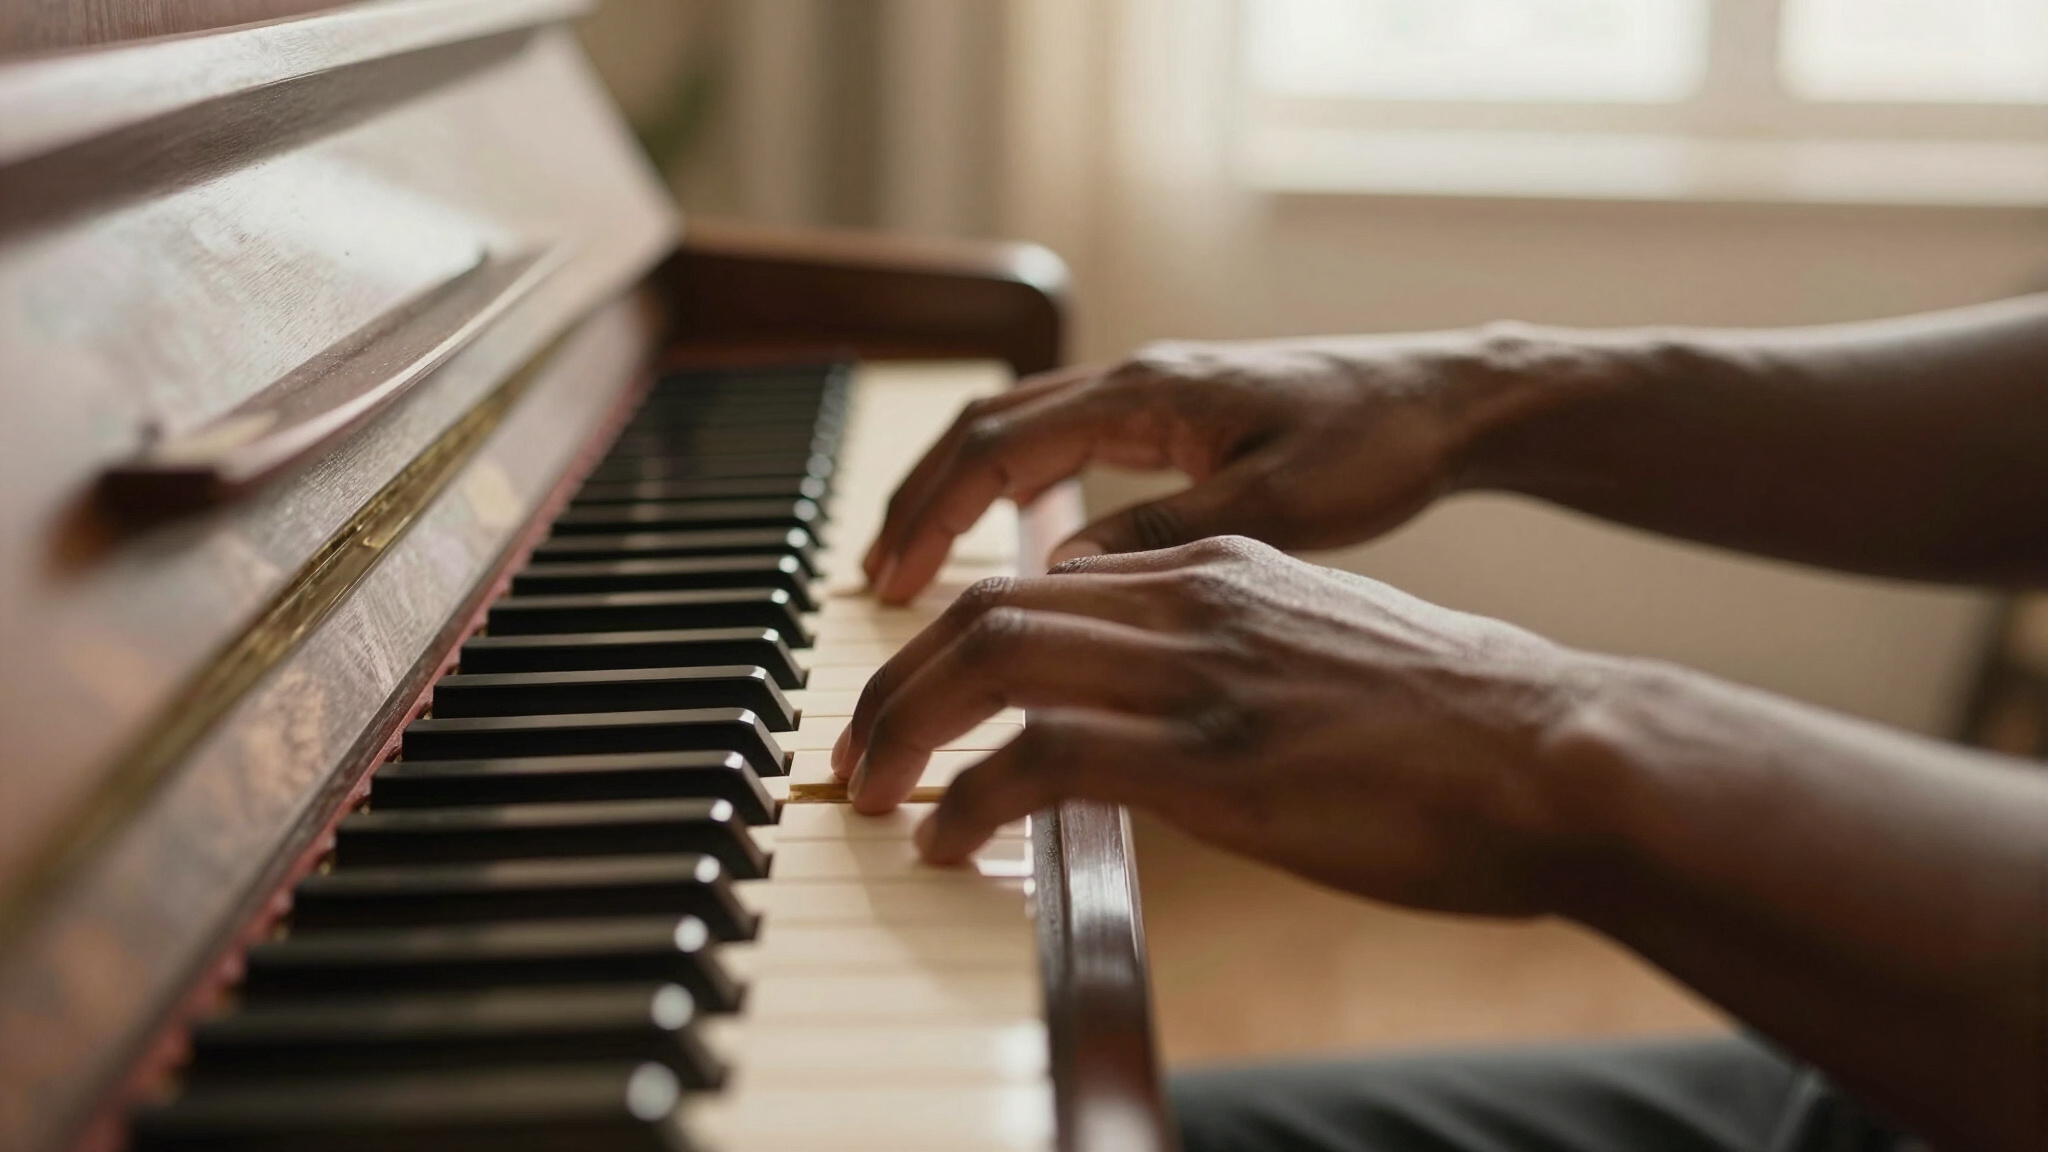
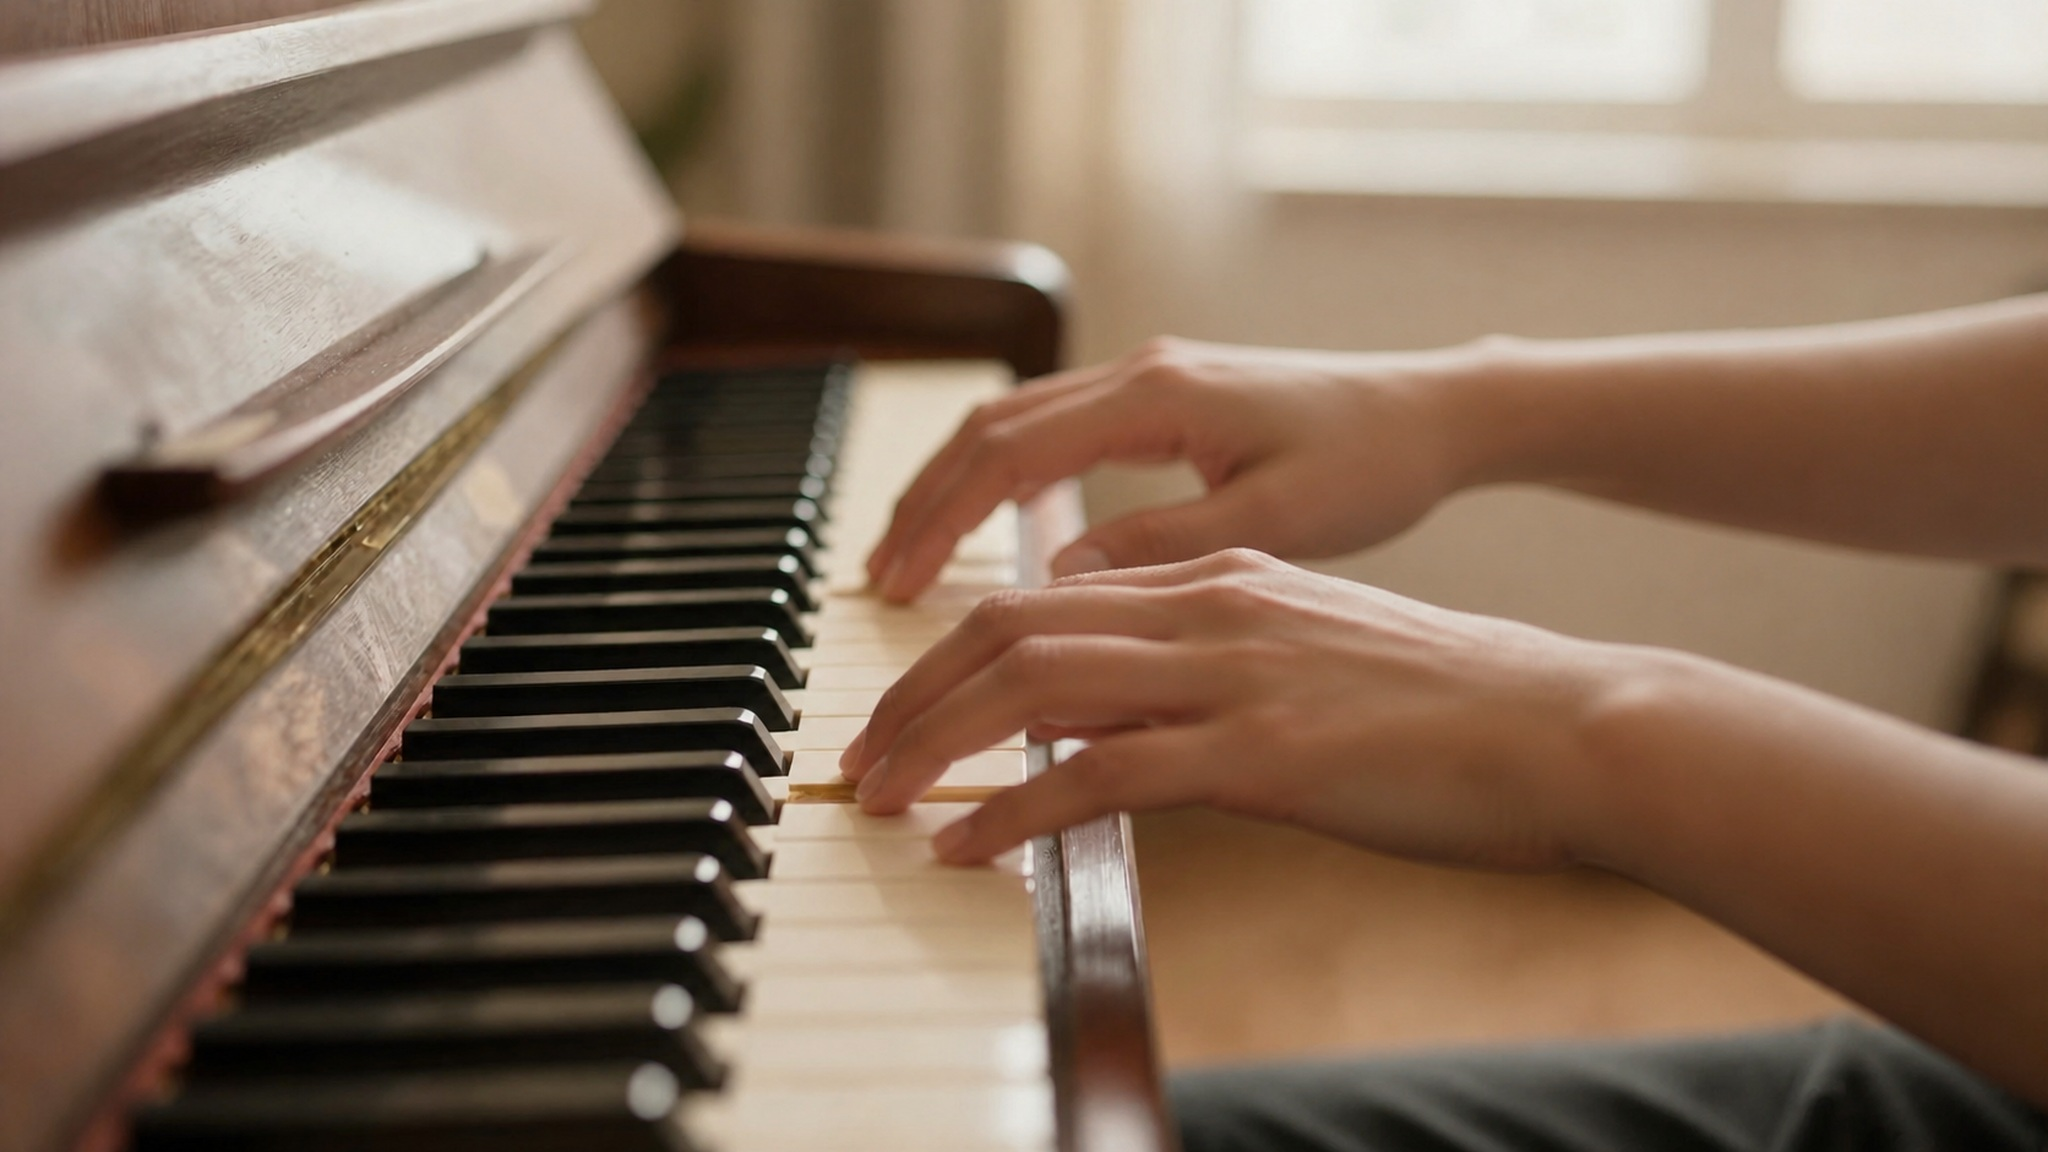
Publish updated piano hero image

Changed region(s): [[0.375, 0.25, 1.0, 0.9688], [0.5312, 0.9062, 0.5625, 0.9688], [0.4375, 0.8125, 0.4688, 0.8438]]

diff --git a/about.html b/about.html
@@ -117,7 +117,7 @@
 
   <!-- ===================== BANNER ===================== -->
   <section class="banner">
-    <div class="banner__bg"><img src="assets/img/hero-bg.jpg" alt="" loading="lazy" /></div>
+    <div class="banner__bg"><img src="assets/img/hero-bg.jpg?v=20260822-2" alt="" loading="lazy" /></div>
     <div class="container">
       <span class="eyebrow reveal">Building a Harmonious Future</span>
       <h2 class="reveal" data-delay="1"><span class="tagline-words">Empower.</span> <span class="tagline-words">Inspire.</span> Together.</h2>

diff --git a/contact.html b/contact.html
@@ -134,7 +134,7 @@
 
   <!-- ===================== BANNER ===================== -->
   <section class="banner">
-    <div class="banner__bg"><img src="assets/img/hero-bg.jpg" alt="" loading="lazy" /></div>
+    <div class="banner__bg"><img src="assets/img/hero-bg.jpg?v=20260822-2" alt="" loading="lazy" /></div>
     <div class="container">
       <span class="eyebrow reveal">Together</span>
       <h2 class="reveal" data-delay="1">Your voice matters <span class="tagline-words">here</span>.</h2>

diff --git a/initiatives.html b/initiatives.html
@@ -143,7 +143,7 @@
 
   <!-- ===================== BANNER ===================== -->
   <section class="banner">
-    <div class="banner__bg"><img src="assets/img/hero-bg.jpg" alt="" loading="lazy" /></div>
+    <div class="banner__bg"><img src="assets/img/hero-bg.jpg?v=20260822-2" alt="" loading="lazy" /></div>
     <div class="container">
       <span class="eyebrow reveal">Together</span>
       <h2 class="reveal" data-delay="1">Find your <span class="tagline-words">rhythm</span>.</h2>

diff --git a/index.html b/index.html
@@ -40,7 +40,7 @@
 
   <!-- ===================== HERO ===================== -->
   <section class="hero hero--light" id="top">
-    <div class="hero__bg"><img src="assets/img/hero-bg.jpg" alt="" loading="eager" /></div>
+    <div class="hero__bg"><img src="assets/img/hero-bg.jpg?v=20260822-2" alt="" loading="eager" /></div>
     <div class="container">
       <div class="hero__content">
         <span class="eyebrow">The EIT Project</span>
